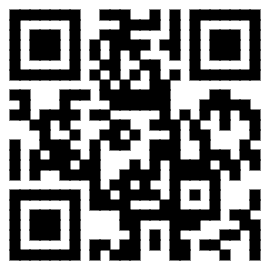
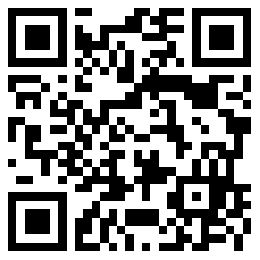
替换头像以及二维码

diff --git a/src/views/Paper.vue b/src/views/Paper.vue
@@ -23,7 +23,7 @@
           </div>
         </div>
         <div class="avatar">
-          <img src="../assets/head.jpg">
+          <img src="../assets/head-paper.jpg">
         </div>
       </div>
       <div class="title">
@@ -84,7 +84,7 @@
     components: {},
     methods: {
       downloadResume() {
-        window.open('http://pn5jqyvqw.bkt.clouddn.com/%E9%99%88%E6%A0%A1%E5%9F%B9-%E7%AE%80%E5%8E%86.pdf')
+        window.open('https://resource-alinlinbo.obs.cn-south-1.myhuaweicloud.com/%E9%99%88%E7%87%95%E7%81%B5-%E5%89%8D%E7%AB%AF%E6%B1%82%E8%81%8C-%E7%AE%80%E5%8E%86.pdf')
       }
     },
     mounted() {
@@ -117,7 +117,7 @@
             icon: 'user'
           },
           {
-            val: '1996-02',
+            val: '专业：软件技术',
             icon: 'calendar-alt'
           }, {
             val: '1年开发经验',
@@ -324,7 +324,6 @@
     margin: 0px auto
     margin-right: 22px
     width: 120px
-    height: 120px
     border: 1px solid whitesmoke
     background-color: white
 

diff --git a/src/components/AboutMe.vue b/src/components/AboutMe.vue
@@ -1,6 +1,6 @@
 <template>
     <div class="root">
-        <img id="avatar" src="../assets/head.jpg"/>
+            <img id="avatar" src="../assets/head.jpg"/>
         <h1>陈燕灵</h1>
         <div class="subTitle">定个小目标，我想做个页面仔</div>
     </div>
@@ -30,4 +30,5 @@
         font-size 1.4rem
         padding 0 2rem
         text-align center
+
 </style>

diff --git a/src/components/Paper.vue b/src/components/Paper.vue
@@ -2,7 +2,7 @@
     <div class="root">
         <font-awesome-icon v-for="i in 3" :key="i"  icon="chevron-right"/>&nbsp;
         <router-link to="/paper">纸质版简历</router-link>
-        &nbsp;<font-awesome-icon  v-for="i in 3" :key="i" icon="chevron-left"/>
+        &nbsp;<font-awesome-icon  v-for="i in [4,5,6]" :key="i" icon="chevron-left"/>
     </div>
 </template>
 

diff --git a/src/components/Project.vue b/src/components/Project.vue
@@ -37,6 +37,11 @@
 </script>
 
 <style scoped lang="stylus">
+    @media screen and (min-width: 769px)
+        .content
+            width 60%
+            font-size 1.5rem
+
     .root
         display flex
         flex-direction column
